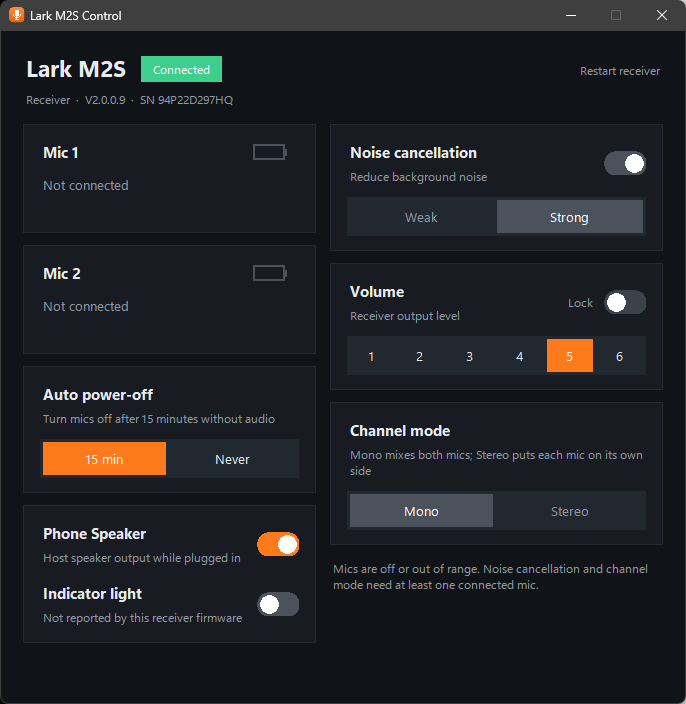
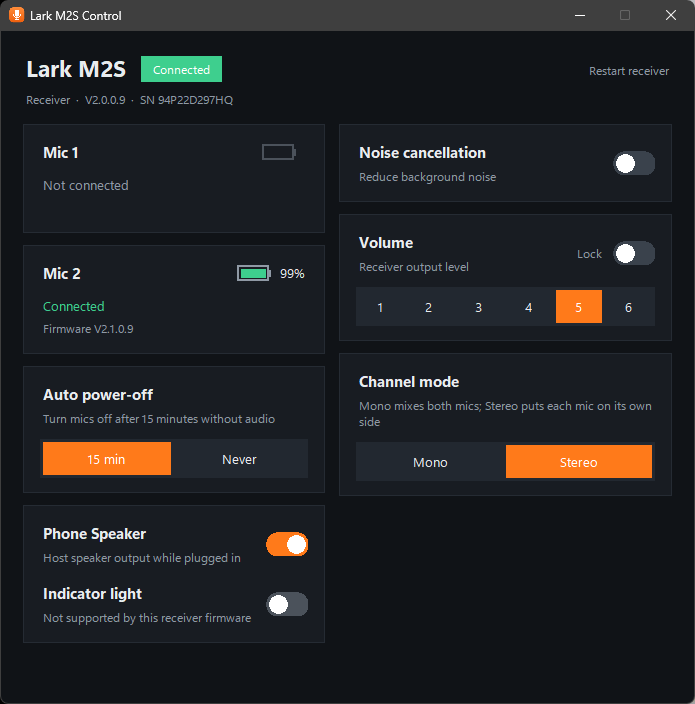
Accept the noise toggle's ack and clarify the light note
The receiver acks the noise toggle (0x19) with 0x87 (now on) or 0x07
(now off) instead of 0x01, so the app would have reported a failure
after every successful toggle. Add protocol.set_succeeded() with
offline tests.

Receiver firmware V2.0.0.9 doesn't reply to the indicator-light
command at all, so say it's not supported rather than "not reported".
Document both findings in the README and refresh the screenshot.

diff --git a/tests/test_protocol.py b/tests/test_protocol.py
@@ -1,0 +1,45 @@
+"""Offline protocol tests. Run from the project folder:  python -m tests.test_protocol"""
+from larkm2s import protocol as P
+
+
+def test_toggle_noise_ack_counts_as_success():
+    # The receiver acks 0x19 with 0x87 (now on) or 0x07 (now off), not 0x01.
+    assert P.set_succeeded(P.Reply(P.TOGGLE_NOISE, P.RX, b"\x87"))
+    assert P.set_succeeded(P.Reply(P.TOGGLE_NOISE, P.RX, b"\x07"))
+
+
+def test_regular_set_acks():
+    assert P.set_succeeded(P.Reply(P.SET_VOLUME, P.RX, b"\x01"))
+    assert P.set_succeeded(P.Reply(P.SET_NOISE_LEVEL, P.RX, b"\x01\x02"))
+    assert not P.set_succeeded(P.Reply(P.SET_VOLUME, P.RX, b"\x00"))
+    assert not P.set_succeeded(P.Reply(P.SET_VOICE_MODE, P.RX, b""))
+
+
+def test_build_report_frame():
+    report = P.build_report(P.SET_VOLUME, b"\x04")
+    assert len(report) == 64
+    assert report[:9] == bytes([0x55, 0xAA, 0xDD, 0x05, 0x40, 0x00, 0x01, 0x04, 0xAA ^ 0xDD ^ 0x05 ^ 0x40 ^ 0x01 ^ 0x04])
+
+
+def test_parse_heartbeat_reply():
+    raw = bytes([0x55, 0xBB, 0xDD, 0x10, 0x80, 0x00, 0x0B, 1, 1, 98, 99, 0, 0, 0, 4, 0, 1, 0]).ljust(64, b"\0")
+    reply = P.parse_report(raw)
+    status = P.Status.from_payload(reply.payload)
+    assert (reply.cmd, reply.device) == (P.HEARTBEAT, P.RX)
+    assert status.tx1_connected and status.tx2_connected
+    assert (status.tx1_battery, status.tx2_battery) == (98, 99)
+    assert status.noise == 0 and status.volume == 4 and status.stereo
+    assert status.light_on is None      # firmware V2.0.0.9 sends 11 bytes
+
+
+if __name__ == "__main__":
+    failed = 0
+    for name, fn in list(globals().items()):
+        if name.startswith("test_"):
+            try:
+                fn()
+                print("ok  ", name)
+            except Exception as exc:  # report every failing test, not just the first
+                failed += 1
+                print("FAIL", name, "-", type(exc).__name__, exc)
+    raise SystemExit(1 if failed else 0)

diff --git a/app.py b/app.py
@@ -332,7 +332,7 @@ class App:
             self.phone_speaker = r.payload[0] == 0
         elif r.cmd in (P.SET_VOLUME, P.SET_NOISE_LEVEL, P.TOGGLE_NOISE, P.SET_VOLUME_LOCK,
                        P.SET_VOICE_MODE, P.SET_SHUTDOWN_TIME, P.SET_LIGHT, P.SET_PHONE_SPEAKER):
-            ok = bool(r.payload) and r.payload[0] == 1
+            ok = P.set_succeeded(r)
             self._show_toast("Saved" if ok else "The receiver didn't accept that change", not ok)
             if not ok:
                 self.holds.clear()
@@ -485,7 +485,7 @@ class App:
         light = self._get("light_on", s.light_on if s else None)
         self.light_toggle.set(bool(light), enabled=live and light is not None)
         self.light_note.configure(
-            text="Not reported by this receiver firmware" if live and light is None else "")
+            text="Not supported by this receiver firmware" if live and light is None else "")
 
     def _show_toast(self, text, error=False):
         self.toast.configure(text=text, fg=self.t["bad"] if error else self.t["muted"])

diff --git a/larkm2s/protocol.py b/larkm2s/protocol.py
@@ -80,6 +80,15 @@ def parse_report(report: bytes):
     return Reply(cmd, ctl & 0x0F, bytes(report[start + 6:end]))
 
 
+def set_succeeded(reply: Reply) -> bool:
+    """Whether a reply to a set command reports success."""
+    if not reply.payload:
+        return False
+    if reply.cmd == TOGGLE_NOISE:
+        return True      # acked with 0x87 (now on) or 0x07 (now off)
+    return reply.payload[0] == 1
+
+
 @dataclass
 class Status:
     """Decoded heartbeat (0x10) reply."""

diff --git a/README.md b/README.md
@@ -16,7 +16,7 @@ Not affiliated with or endorsed by Hollyland. Use at your own risk.
 - Channel mode: Mono or Stereo
 - Auto power-off: 15 min or Never
 - Phone Speaker switch
-- Indicator light (only on receiver firmware that reports it)
+- Indicator light (only on receiver firmware that supports it; V2.0.0.9 doesn't)
 - Restart receiver
 - Reconnects automatically when the receiver is unplugged or restarted
 - Follows the Windows light/dark app theme
@@ -50,6 +50,13 @@ The output is `dist\Lark M2S Control.exe`. `python make_icon.py` regenerates `as
 `python diagnose.py` prints the receiver's status, versions and serial numbers without changing
 anything.
 
+## Tests
+
+```powershell
+.venv\Scripts\python -m tests.test_protocol   # offline
+.venv\Scripts\python -m tests.live_check      # needs the receiver plugged in; read-only
+```
+
 ## Protocol notes
 
 Tested with a Lark M2S USB-C receiver (VID `0x3547`, PID `0x0405`, receiver firmware V2.0.0.9,
@@ -67,7 +74,9 @@ RX -> host:  55 | BB DD cmd ctl lenHi lenLo payload...     | zero padding
 - `ctl` is `0x40 | device` in requests (0 = receiver, 1 = mic 1, 2 = mic 2). Replies use
   `0x80 | device`.
 - `xor` is the XOR of all frame bytes before it. The receiver doesn't add one to replies.
-- Set commands reply with payload `01` on success.
+- Set commands reply with payload `01` on success, except the noise toggle (see table).
+- The receiver only sends reports in reply to a request, so poll the heartbeat (the app does
+  once a second). Commands the firmware doesn't know get no reply.
 
 | Cmd  | Name            | Request payload                   | Reply payload |
 |------|-----------------|-----------------------------------|---------------|
@@ -78,14 +87,14 @@ RX -> host:  55 | BB DD cmd ctl lenHi lenLo payload...     | zero padding
 | 0x05 | Set volume      | 0–5 (shown as 1–6)                | status |
 | 0x06 | Set noise level | 1 = weak, 2 = strong              | status, level |
 | 0x11 | Get noise level | –                                 | 0 = off, 1, 2 |
-| 0x19 | Toggle noise    | `02`                              | status |
+| 0x19 | Toggle noise    | `02`                              | `87` = now on, `07` = now off |
 | 0x12 | Set Phone Speaker | 0 = on, 1 = off                 | status |
 | 0x13 | Get Phone Speaker | –                               | 0 = on |
 | 0x18 | Set channel mode | 0 = mono, 1 = stereo             | status |
 | 0x34 | Set volume lock | 1 = locked, 0 = unlocked          | status |
 | 0x35 | Get volume lock | –                                 | 0/1 |
 | 0x36 | Set auto power-off | 0 = 15 min, 1 = never          | status |
-| 0x39 | Set indicator light | 0 = on, 1 = off               | status |
+| 0x39 | Set indicator light | 0 = on, 1 = off               | status (no reply on V2.0.0.9) |
 | 0x0C | Restart receiver | –                                | – |
 
 Heartbeat reply payload: `[0]` mic 1 connected, `[1]` mic 2 connected, `[2]` mic 1 battery %,
